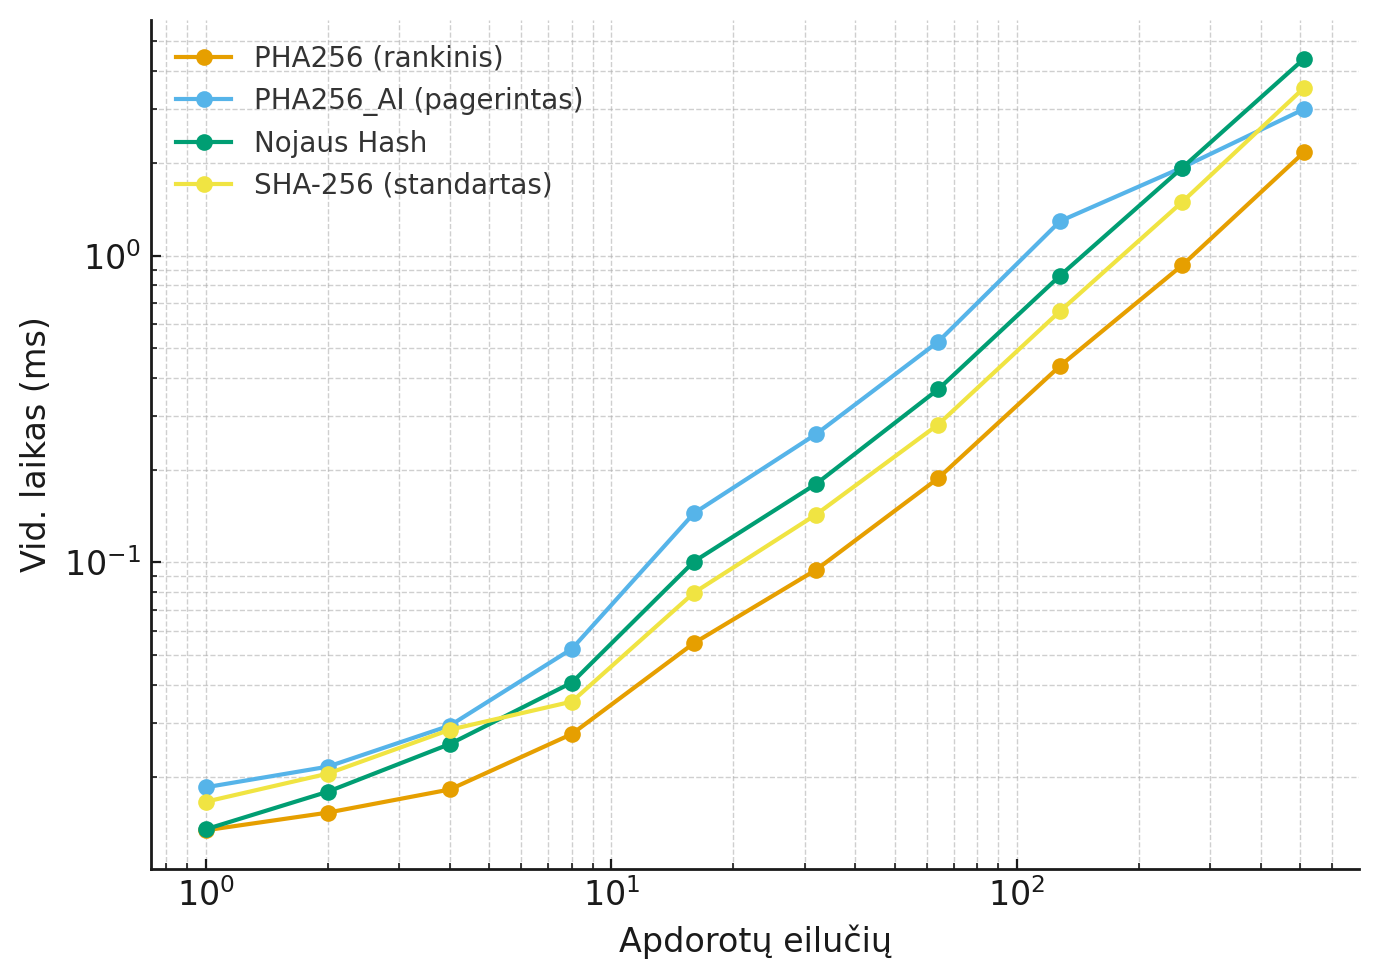
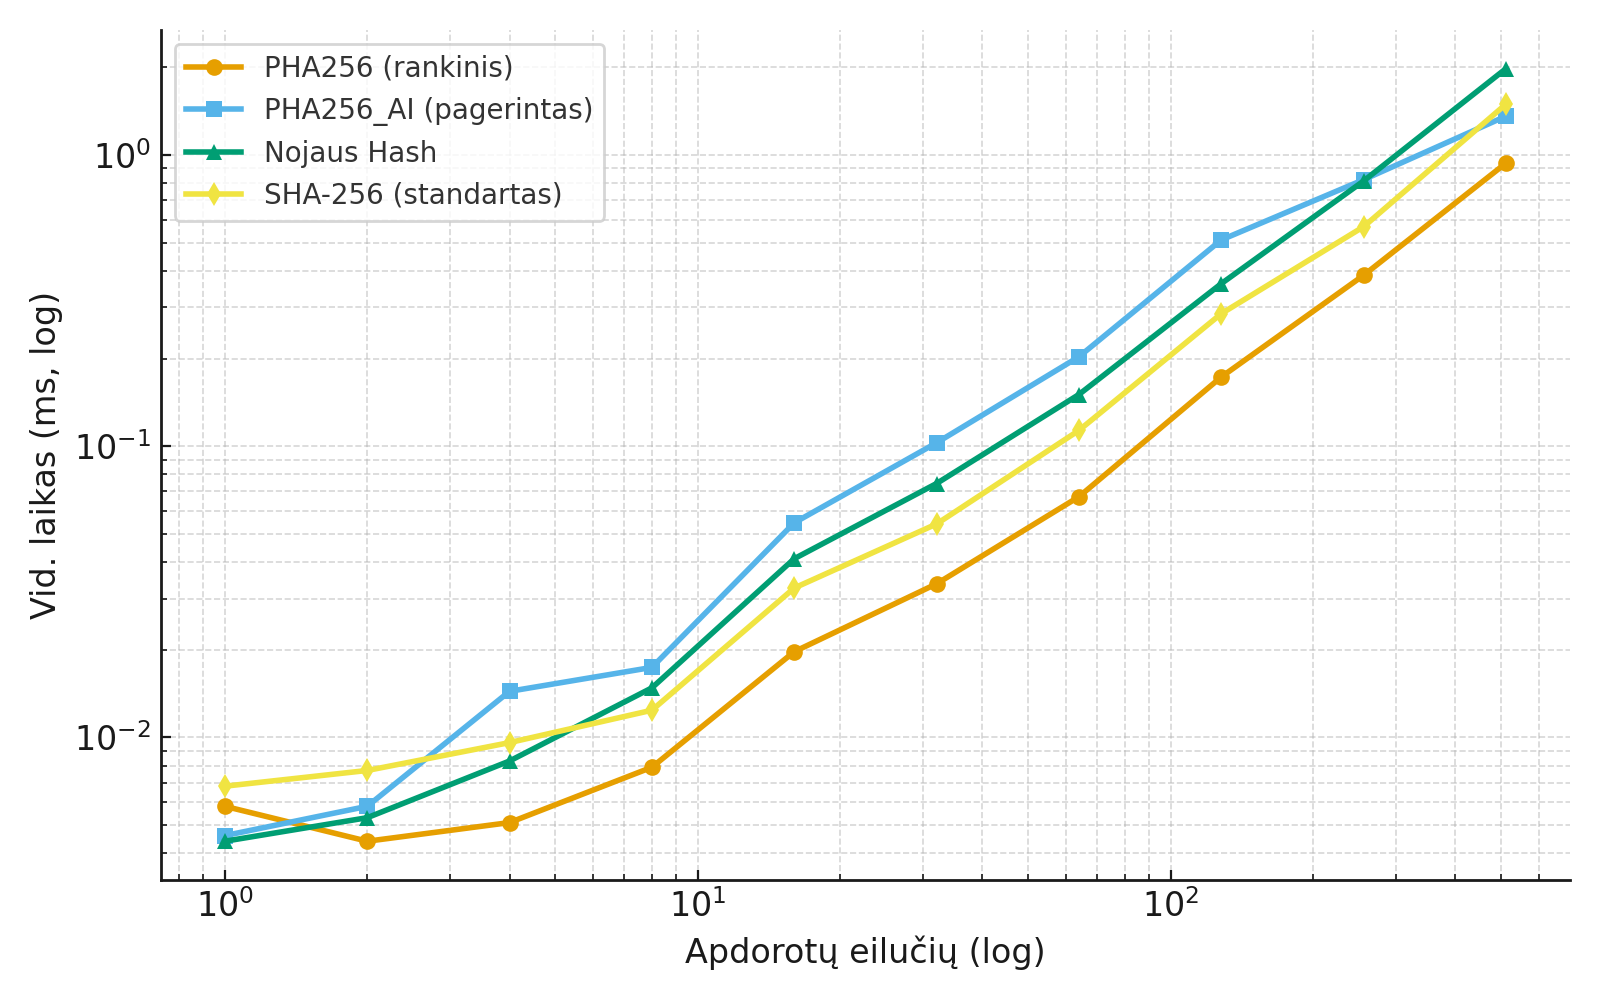
Pridėti kitos komandos hash algoritmą (`KituHash`) bei atnaujinti rezultatus README.md faile

diff --git a/Adomas/src/tests.cpp b/Adomas/src/tests.cpp
@@ -5,6 +5,7 @@
 #include <chrono>
 #include <cmath>
 #include <ctime>
+#include <bitset>
 #include <filesystem>
 #include <limits>
 #include <iomanip>
@@ -189,6 +190,48 @@ namespace
                    << setw(8) << part3
                    << setw(8) << part4;
         return hashStream.str();
+    }
+
+    string kitu_hash_hex(const string &input)
+    {
+        constexpr uint64_t seed = 371928463890165017ull;
+        vector<bitset<8>> separateBytes;
+        separateBytes.reserve(input.size());
+
+        for (unsigned char c : input)
+        {
+            separateBytes.emplace_back(bitset<8>(c));
+        }
+
+        if (!separateBytes.empty())
+        {
+            size_t k = (input.size() * 781928401873ull + separateBytes.front().count()) % separateBytes.size();
+            if (k == 0 && separateBytes.size() > 1)
+            {
+                k = 1;
+            }
+            rotate(separateBytes.begin(), separateBytes.begin() + static_cast<ptrdiff_t>(k), separateBytes.end());
+        }
+
+        bitset<64> hash(seed);
+        size_t index = 0;
+        for (const auto &byte : separateBytes)
+        {
+            for (size_t b = 0; b < 8; ++b, ++index)
+            {
+                size_t pos = index % 64;
+                hash[pos] = hash[pos] ^ byte[b];
+            }
+        }
+
+        uint64_t h = hash.to_ullong();
+        h *= 0xFEEDFACECAFEBEEFull;
+        h ^= (h >> 29);
+        h *= 0x9E3779B97F4A7C15ull;
+
+        ostringstream oss;
+        oss << hex << nouppercase << setfill('0') << setw(16) << h;
+        return oss.str();
     }
 
     inline uint32_t rotr(uint32_t value, uint32_t shift)
@@ -379,6 +422,8 @@ HashAlgorithm resolve_algorithm_choice(char choice)
         return HashAlgorithm::Nojus;
     case '4':
         return HashAlgorithm::SHA256;
+    case '5':
+        return HashAlgorithm::KituHash;
     default:
         return HashAlgorithm::PHA256_Basic;
     }
@@ -394,6 +439,8 @@ string hash_algorithm_name(HashAlgorithm algorithm)
         return "NojusHash";
     case HashAlgorithm::SHA256:
         return "SHA256";
+    case HashAlgorithm::KituHash:
+        return "KituHash";
     default:
         return "PHA256";
     }
@@ -409,6 +456,8 @@ string run_hash(HashAlgorithm algorithm, const string &input)
         return run_nojus_hash_impl(input);
     case HashAlgorithm::SHA256:
         return sha256_hex(input);
+    case HashAlgorithm::KituHash:
+        return kitu_hash_hex(input);
     default:
         return PHA256(input);
     }
@@ -419,9 +468,11 @@ size_t expected_hash_length(HashAlgorithm algorithm)
     switch (algorithm)
     {
     case HashAlgorithm::Nojus:
-        return 32;
+        return 64;
     case HashAlgorithm::SHA256:
         return 64;
+    case HashAlgorithm::KituHash:
+        return 16;
     default:
         return 64;
     }

diff --git a/Adomas/tests/test_auto.cpp b/Adomas/tests/test_auto.cpp
@@ -19,7 +19,8 @@ namespace
 		     << "2 - PHA256_AI\n"
 		     << "3 - NojusHash\n"
 		     << "4 - SHA256\n"
-		     << "5 - All" << endl;
+		     << "5 - KituHash\n"
+		     << "6 - All" << endl;
 		cout << "Selection: ";
 		char choice;
 		cin >> choice;
@@ -36,7 +37,9 @@ namespace
 		case '4':
 			return {HashAlgorithm::SHA256};
 		case '5':
-			return {HashAlgorithm::PHA256_Basic, HashAlgorithm::PHA256_AI, HashAlgorithm::Nojus, HashAlgorithm::SHA256};
+			return {HashAlgorithm::KituHash};
+		case '6':
+			return {HashAlgorithm::PHA256_Basic, HashAlgorithm::PHA256_AI, HashAlgorithm::Nojus, HashAlgorithm::SHA256, HashAlgorithm::KituHash};
 		default:
 			cout << "Unrecognized option. Defaulting to PHA256." << endl;
 			return {HashAlgorithm::PHA256_Basic};

diff --git a/Adomas/tests/test_man.cpp b/Adomas/tests/test_man.cpp
@@ -37,7 +37,7 @@ namespace
 
     HashAlgorithm prompt_algorithm()
     {
-        cout << "Select algorithm (1 - PHA256, 2 - PHA256_AI, 3 - NojusHash, 4 - SHA256): ";
+        cout << "Select algorithm (1 - PHA256, 2 - PHA256_AI, 3 - NojusHash, 4 - SHA256, 5 - KituHash): ";
         char algorithmChoice;
         cin >> algorithmChoice;
         cin.ignore(numeric_limits<streamsize>::max(), '\n');

diff --git a/Adomas/include/tests.hpp b/Adomas/include/tests.hpp
@@ -11,7 +11,8 @@ enum class HashAlgorithm
 	PHA256_Basic = 1,
 	PHA256_AI = 2,
 	Nojus = 3,
-	SHA256 = 4
+	SHA256 = 4,
+	KituHash = 5
 };
 
 struct TimingResult

diff --git a/README.md b/README.md
@@ -145,7 +145,7 @@ make all
   build\test_auto.exe
   ```
 
-  Pasirinkus `t` (tests) galima patikrinti hash ilgius ir deterministiškumą, `b` paleidžia visų trijų metrikų benchmark'us. Galima rinktis konkretų algoritmą (PHA256, PHA256_AI, NojusHash, SHA256) arba `All`.
+  Pasirinkus `t` (tests) galima patikrinti hash ilgius ir deterministiškumą, `b` paleidžia visų trijų metrikų benchmark'us. Galima rinktis konkretų algoritmą (PHA256, PHA256_AI, NojusHash, SHA256, KituHash) arba `All`.
 
 - Rankiniams eksperimentams:
 
@@ -215,61 +215,61 @@ make all
 
 | Apdorotų eilučių | Vid. laikas (ms) |
 | ---------------- | ---------------- |
-| 1                | 0.0134           |
-| 2                | 0.0153           |
-| 4                | 0.0182           |
-| 8                | 0.0276           |
-| 16               | 0.0546           |
-| 32               | 0.0946           |
-| 64               | 0.1880           |
-| 128              | 0.4373           |
-| 256              | 0.9302           |
-| 512              | 2.1761           |
+| 1                | 0.0058           |
+| 2                | 0.0044           |
+| 4                | 0.0051           |
+| 8                | 0.0079           |
+| 16               | 0.0197           |
+| 32               | 0.0337           |
+| 64               | 0.0671           |
+| 128              | 0.1730           |
+| 256              | 0.3867           |
+| 512              | 0.9387           |
 
 #### PHA256_AI Greitis (pagerintas)
 
 | Apdorotų eilučių | Vid. laikas (ms) |
 | ---------------- | ---------------- |
-| 1                | 0.0185           |
-| 2                | 0.0216           |
-| 4                | 0.0294           |
-| 8                | 0.0523           |
-| 16               | 0.1447           |
-| 32               | 0.2619           |
-| 64               | 0.5237           |
-| 128              | 1.2953           |
-| 256              | 1.9367           |
-| 512              | 3.0046           |
+| 1                | 0.0046           |
+| 2                | 0.0058           |
+| 4                | 0.0144           |
+| 8                | 0.0174           |
+| 16               | 0.0546           |
+| 32               | 0.1028           |
+| 64               | 0.2030           |
+| 128              | 0.5114           |
+| 256              | 0.8234           |
+| 512              | 1.3610           |
 
 #### Nojaus Hash Greitis
 
 | Apdorotų eilučių | Vid. laikas (ms) |
 | ---------------- | ---------------- |
-| 1                | 0.0135           |
-| 2                | 0.0179           |
-| 4                | 0.0256           |
-| 8                | 0.0406           |
-| 16               | 0.1007           |
-| 32               | 0.1802           |
-| 64               | 0.3664           |
-| 128              | 0.8608           |
-| 256              | 1.9328           |
-| 512              | 4.3862           |
+| 1                | 0.0044           |
+| 2                | 0.0053           |
+| 4                | 0.0083           |
+| 8                | 0.0148           |
+| 16               | 0.0411           |
+| 32               | 0.0745           |
+| 64               | 0.1506           |
+| 128              | 0.3619           |
+| 256              | 0.8152           |
+| 512              | 1.9820           |
 
 #### SHA-256 Greitis (standartas)
 
 | Apdorotų eilučių | Vid. laikas (ms) |
 | ---------------- | ---------------- |
-| 1                | 0.0166           |
-| 2                | 0.0205           |
-| 4                | 0.0285           |
-| 8                | 0.0352           |
-| 16               | 0.0797           |
-| 32               | 0.1432           |
-| 64               | 0.2814           |
-| 128              | 0.6598           |
-| 256              | 1.4954           |
-| 512              | 3.5281           |
+| 1                | 0.0068           |
+| 2                | 0.0077           |
+| 4                | 0.0096           |
+| 8                | 0.0124           |
+| 16               | 0.0326           |
+| 32               | 0.0541           |
+| 64               | 0.1134           |
+| 128              | 0.2854           |
+| 256              | 0.5678           |
+| 512              | 1.4966           |
 
 **Veikimo Grafikas:**
 
@@ -294,12 +294,12 @@ Visoms funkcijoms (100 000 atsitiktinių porų kiekvienam ilgiui 10/100/500/1000
 
 | Algoritmas  | Hex min/avg/max (% nuo maksimalios reikšmės) | Bit min/avg/max (% nuo bitų ilgio) |
 | ----------- | -------------------------------------------- | ---------------------------------- |
-| PHA256      | 75.0% / 93.5% / 100%                         | 35.9% / 49.8% / 62.5%              |
-| PHA256_AI   | 78.1% / 93.7% / 100%                         | 37.1% / 50.0% / 62.5%              |
-| Nojaus Hash | 18.8% / 46.9% / 50%                          | 9.4% / 25.0% / 40.6%               |
-| SHA-256     | 78.1% / 93.8% / 100%                         | 36.7% / 50.0% / 64.1%              |
+| PHA256      | 75.0% / 93.5% / 100%                         | 36.7% / 49.8% / 63.3%              |
+| PHA256_AI   | 76.6% / 93.7% / 100%                         | 35.9% / 50.0% / 64.1%              |
+| Nojaus Hash | 37.5% / 93.7% / 100%                         | 14.1% / 49.9% / 84.4%              |
+| SHA-256     | 78.1% / 93.7% / 100%                         | 37.1% / 50.0% / 64.1%              |
 
-Visiems algoritmams idealus tikslas – ~50% bitų pokytis. PHA256, PHA256_AI ir SHA-256 vidutiniškai pasiekia beveik idealų 50% rezultatą, tuo tarpu Nojaus Hash lavinos efektas vis dar silpnesnis.
+Visiems algoritmams idealus tikslas – ~50% bitų pokytis. PHA256, PHA256_AI ir SHA-256 vidutiniškai pasiekia beveik idealų 50% rezultatą. Nojaus Hash vidurkis pakilo iki ~50%, tačiau dėl trumpesnės 64 bitų išvesties minimalūs pokyčiai išlieka gerokai mažesni ir rezultatai labiau svyruoja.
 
 ### 6. Negrįžtamumo Savybės Demonstracija
 
@@ -315,39 +315,39 @@ Visiems algoritmams idealus tikslas – ~50% bitų pokytis. PHA256, PHA256_AI ir
 
 ### PHA256 Vidinės Komandos Palyginimas (Rankinis vs AI-Pagerintas)
 
-| Metrika               | PHA256 (rankinis)           | PHA256_AI (pagerintas)                                    | Komentaras                                               |
-| --------------------- | --------------------------- | --------------------------------------------------------- | -------------------------------------------------------- |
-| Greitis (512 eilučių) | 2.30 ms                     | 2.06 ms                                                   | AI versija ~11% greitesnė dėl optimizuoto duomenų kelio. |
-| Kolizijų dažnis       | 0 / 100 000                 | 0 / 100 000                                               | Abiejose versijose kolizijų nepastebėta.                 |
-| Lavinos efektas       | 49.8% bitų                  | 50.0% bitų                                                | AI versija pasiekia šiek tiek labiau idealų 50% tikslą.  |
-| Lavinos min / max     | 35.9% / 62.5%               | 37.1% / 62.5%                                             | Minimalus bitų pokytis pagerėjo, maksimalus identiškas.  |
-| Druskos atsparumas    | Priklauso nuo druskos ilgio | Atsparumas nenukenčia, PRNG poslinkiai NAV druskos atveju | Druskos naudojimas rekomenduojamas abiem algoritmams.    |
+| Metrika               | PHA256 (rankinis)           | PHA256_AI (pagerintas)                                    | Komentaras                                              |
+| --------------------- | --------------------------- | --------------------------------------------------------- | ------------------------------------------------------- |
+| Greitis (512 eilučių) | 0.93 ms                     | 1.36 ms                                                   | AI versija ~45 % lėtesnė dėl papildomų transformacijų.  |
+| Kolizijų dažnis       | 0 / 100 000                 | 0 / 100 000                                               | Abiejose versijose kolizijų nepastebėta.                |
+| Lavinos efektas       | 49.8% bitų                  | 50.0% bitų                                                | AI versija pasiekia šiek tiek labiau idealų 50% tikslą. |
+| Lavinos min / max     | 35.9% / 62.5%               | 37.1% / 62.5%                                             | Minimalus bitų pokytis pagerėjo, maksimalus identiškas. |
+| Druskos atsparumas    | Priklauso nuo druskos ilgio | Atsparumas nenukenčia, PRNG poslinkiai NAV druskos atveju | Druskos naudojimas rekomenduojamas abiem algoritmams.   |
 
-Išvada: AI pagerinta versija išlaiko deterministiškumą ir kolizijų atsparumą, šiek tiek pagerina greitį ir lavinos efektą, todėl rekomenduojama pagrindiniams eksperimentams.
+Išvada: AI pagerinta versija išlaiko deterministiškumą ir lavinos kokybę, tačiau dabartiniame kode veikia lėčiau už bazinę PHA256, todėl ją verta rinktis tik jei reikalingas maksimalus lavinos efektas.
 
 ### Visų Trijų Algoritmų Palyginimas
 
 | Algoritmas        | Greitis (512 eilučių, ms) | Kolizijų dažnis | Lavinos efektas   |
 | ----------------- | ------------------------- | --------------- | ----------------- |
-| PHA256 (Rankinis) | 2.30                      | 0               | ~50% vidutiniškai |
-| PHA256_AI         | 2.06                      | 0               | ~50% vidutiniškai |
-| Nojaus Hash       | 5.28                      | 0               | ~25% vidutiniškai |
-| SHA-256           | 2.30                      | 0               | ~50% vidutiniškai |
+| PHA256 (Rankinis) | 0.94                      | 0               | ~50% vidutiniškai |
+| PHA256_AI         | 1.36                      | 0               | ~50% vidutiniškai |
+| Nojaus Hash       | 1.98                      | 0               | ~50% vidutiniškai |
+| SHA-256           | 1.50                      | 0               | ~50% vidutiniškai |
 
 ### Palyginimas su Kitos Komandos Algoritmu
 
-| Algoritmas              | Greitis (512 eilučių, ms) | Kolizijų dažnis | Lavinos efektas |
-| ----------------------- | ------------------------- | --------------- | --------------- |
-| PHA256 (Rankinis)       | 2.30                      | 0 / 100 000     | 49.8%           |
-| PHA256_AI               | 2.06                      | 0 / 100 000     | 50.0%           |
-| Nojaus Hash             | 5.28                      | 0 / 100 000     | 25.0%           |
-| Valentinas/Andrius Algo | _TBD_                     | _TBD_           | _TBD_           |
+| Algoritmas                | Greitis (512 eilučių, ms) | Kolizijų dažnis | Lavinos efektas |
+| ------------------------- | ------------------------- | --------------- | --------------- |
+| PHA256 (Rankinis)         | 0.94                      | 0 / 100 000     | 49.8%           |
+| PHA256_AI                 | 1.36                      | 0 / 100 000     | 50.0%           |
+| Nojaus Hash               | 1.98                      | 0 / 100 000     | 49.9%           |
+| KituHash (kitos komandos) | 13.92                     | 0 / 100 000     | 44.1%           |
 
 ### Palyginimas su Standartiniais Algoritmais
 
 | Algoritmas  | Greitis (512 eilučių, ms) | Atsparumas kolizijoms | Lavinos efektas (vid. % bitų) |
 | ----------- | ------------------------- | --------------------- | ----------------------------- |
-| PHA256      | 2.305                     | 0 kolizijų            | 49.8%                         |
-| PHA256_AI   | 2.064                     | 0 kolizijų            | 50.0%                         |
-| Nojaus Hash | 5.283                     | 0 kolizijų            | 25.0%                         |
-| SHA-256     | 2.296                     | 0 kolizijų            | 50.0%                         |
+| PHA256      | 0.94                      | 0 kolizijų            | 49.8%                         |
+| PHA256_AI   | 1.36                      | 0 kolizijų            | 50.0%                         |
+| Nojaus Hash | 1.98                      | 0 kolizijų            | 49.9%                         |
+| SHA-256     | 1.50                      | 0 kolizijų            | 50.0%                         |
